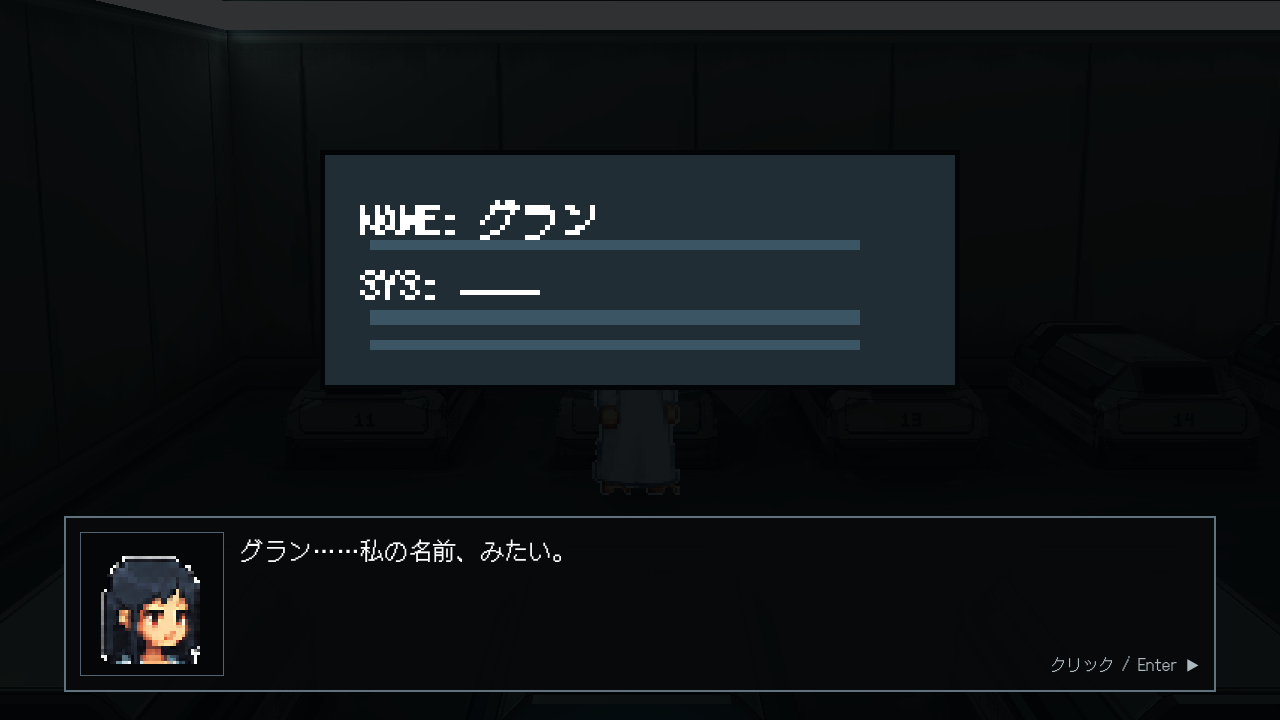
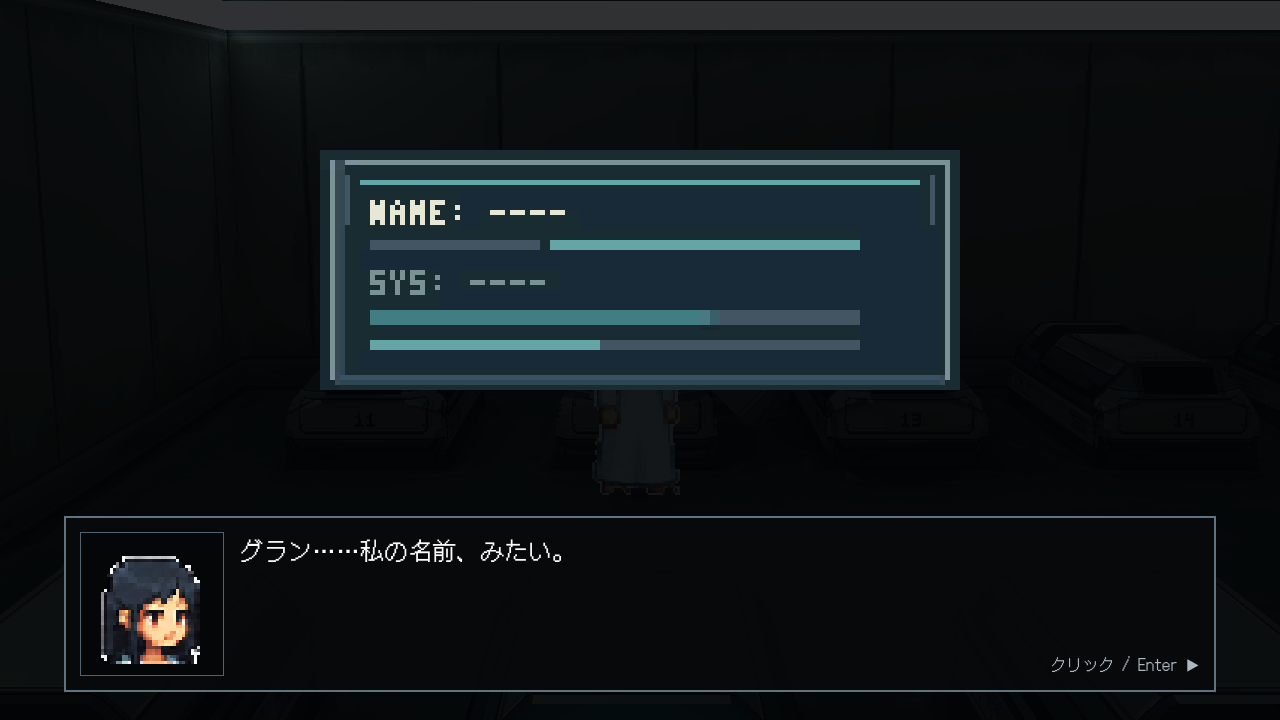
Use original pod panel texture for investigation

Changed region(s): [[0.25, 0.1833, 0.75, 0.55]]

diff --git a/docs/art/experiments/room1_door_sensor_r1/README.md b/docs/art/experiments/room1_door_sensor_r1/README.md
@@ -6,7 +6,7 @@
 
 开场自动出现两句「あ……頭、痛い……。」「ここは……どこ？」；Enter 翻页，Esc 可关闭，结束后恢复操作。同一次游戏运行内再次进入不重复播放，新游戏重置后可再播放。
 
-靠近 P12 按 E，可调查主角自己的休眠舱：原画面变暗，现有 128×48 屏幕贴图放大叠在画面上，不移动游戏镜头，叠层使用与 P12 屏幕相同的动态 NAME／SYS 内容和进度条，NAME 显示「グラン」。两句台词是「情報パネル……？」「グラン……私の名前、みたい。」；Enter 翻页，Esc 关闭，关闭后画面和移动恢复。屏幕断电时只显示屏幕关闭提示，不展示亮着的特写。其他舱和其他物件台词尚未加入。
+靠近 P12 按 E，可调查主角自己的休眠舱：原画面变暗，现有通用 128×48 屏幕贴图原样放大叠在画面上，不移动游戏镜头。原图的姓名与状态是空白占位，舱体上实际屏幕仍显示「グラン」。两句台词是「情報パネル……？」「グラン……私の名前、みたい。」；Enter 翻页，Esc 关闭，关闭后画面和移动恢复。屏幕断电时只显示屏幕关闭提示，不展示亮着的特写。其他舱和其他物件台词尚未加入。
 
-运行 `scripts/dev/verify_room1_door_sensor_r1.gd`，检查开场台词、门、舱体台词、信息图叠层、镜头不移动、关电和退出对话，均通过。`capture.gd` 生成 `evidence/` 下的真实 Godot 截图。叠层用 `room1_pod_detail_overlay.gdshader` 复现 v8.1 屏幕的窄边显示和实时文字；没有改动源图或原舱体。旧门板仍是占位，扫描线是临时视觉提示，房间静态烘焙没有为动态门更新。正式主场景未切换。
+运行 `scripts/dev/verify_room1_door_sensor_r1.gd`，检查开场台词、门、舱体台词、信息图叠层、镜头不移动、关电和退出对话，均通过。`capture.gd` 生成 `evidence/` 下的真实 Godot 截图。叠层直接使用现有通用贴图，未修改源图。旧门板仍是占位，扫描线是临时视觉提示，房间静态烘焙没有为动态门更新。正式主场景未切换。
 
